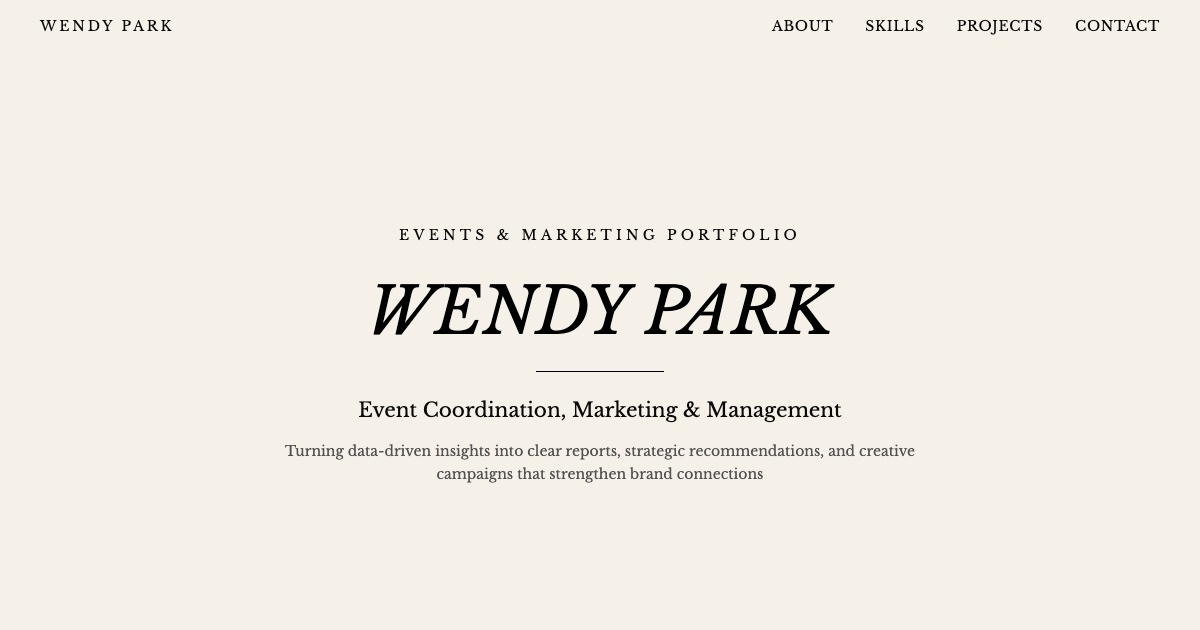
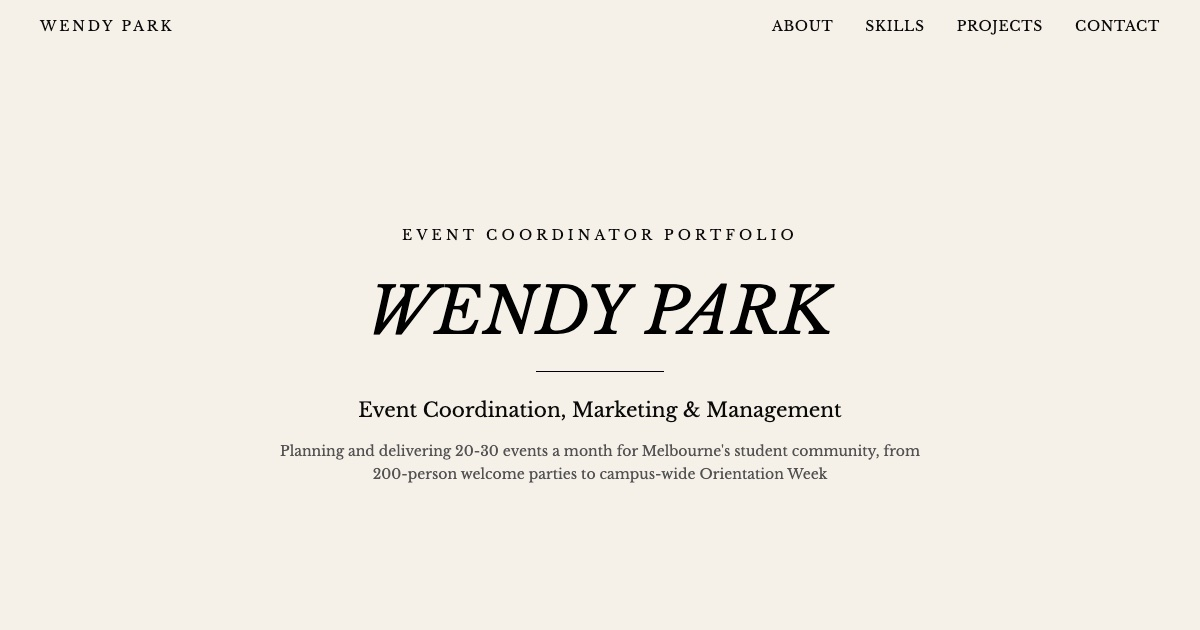
Refocus content on event coordination; update impact stats and add bakery posters
- About, hero tagline, Skills and event project copy rewritten around the Scape Student Experience Coordinator role
- Impact & Reach: events a month, peer mentors trained, O-Week students welcomed
- Add Sweet Milk Bread and Milk Cream Donuts posters to Cafe Promotions (renamed to ASCII filenames)
- Regenerate link-preview image with the new hero

Changed region(s): [[0.2158, 0.6937, 0.7708, 0.7841], [0.3392, 0.3619, 0.6783, 0.3921]]

diff --git a/components/Projects.tsx b/components/Projects.tsx
@@ -24,6 +24,14 @@ export function Projects() {
       src: "/assets/milktea6.jpeg",
       alt: "The Ceylon signature layered milk tea",
     },
+    {
+      src: "/assets/ceylon-poster-sweet-milk-bread.jpg",
+      alt: "Sweet Milk Bread new bakery promotional poster",
+    },
+    {
+      src: "/assets/ceylon-poster-milk-cream-donuts.jpg",
+      alt: "Milk Cream Donuts new bakery promotional poster",
+    },
   ];
   const mpmpGalleryImages = [
     {
@@ -109,8 +117,91 @@ export function Projects() {
           FEATURED WORK
         </h2>
         <p className="text-center text-sm text-neutral-600 mb-16">
-          A selection of marketing projects and creative campaigns
+          Events I have planned and delivered, alongside marketing campaigns and research
         </p>
+
+        {/* Event Management & Student Experience */}
+        <div className="mb-20">
+          <div className="bg-white p-8 md:p-12">
+            <div className="grid md:grid-cols-2 gap-8 items-center mb-8">
+              <div>
+                <h3 className="font-serif italic text-3xl mb-4">Event Management & Student Experience</h3>
+                <p className="text-sm uppercase tracking-wider text-[#C4A57B] mb-4">
+                  Community Engagement & Campus Activations
+                </p>
+                <p className="text-sm leading-relaxed mb-4">
+                  As Student Experience Coordinator at Scape Australia, I plan and deliver an average of 20-30 events a month
+                  across 5 Scape buildings in Melbourne, including large-scale events of 200-300 attendees. From interactive DIY
+                  stations and themed welcome celebrations to large-scale social mixers, every event is built to foster belonging.
+                </p>
+                <div className="space-y-2 text-sm">
+                  <p><span className="font-serif italic">Scale:</span> 20-30 events a month, 200-300 attendees at flagship events, 40+ Student Ambassadors</p>
+                  <p><span className="font-serif italic">Responsibilities:</span> Vendor onboarding, budgeting, ticketing, ambassador recruitment, training & rostering</p>
+                  <p><span className="font-serif italic">Key Events:</span> Think Pink Welcome Party, USQ Welcome Social, DIY Matcha Station</p>
+                  <p><span className="font-serif italic">Deliverables:</span> Event Planning & Execution, Community Facilitation, Photo & Video Content</p>
+                </div>
+              </div>
+              <div className="w-full mx-auto max-w-lg">
+                <ImageWithFallback
+                  src="/assets/event-welcome-social.jpg"
+                  alt="USQ Welcome Social community gathering"
+                  className="w-full h-auto rounded-lg shadow-sm"
+                />
+                <p className="text-xs text-neutral-500 mt-2 text-center italic">
+                  USQ Welcome Social — Community banquet & celebration
+                </p>
+              </div>
+            </div>
+            <div className="grid grid-cols-1 sm:grid-cols-2 lg:grid-cols-3 gap-6 items-stretch">
+              <div className="flex flex-col bg-[#FAF8F5] rounded-xl overflow-hidden border border-[#EADBC8]/60 p-4">
+                <div className="w-full h-72 overflow-hidden rounded-lg mb-3">
+                  <ImageWithFallback
+                    src="/assets/event-matcha-station.jpg"
+                    alt="DIY Matcha Station community event setup"
+                    className="w-full h-full object-cover"
+                  />
+                </div>
+                <h4 className="font-serif italic text-lg text-neutral-800">DIY Matcha Station</h4>
+                <p className="text-xs uppercase tracking-wider text-[#C4A57B] mt-0.5">Interactive Student Workshop</p>
+                <p className="text-xs text-neutral-600 mt-2 leading-relaxed">
+                  Engaging hands-on workshop station fostering relaxed, interactive peer connections over craft drinks.
+                </p>
+              </div>
+
+              <div className="flex flex-col bg-[#FAF8F5] rounded-xl overflow-hidden border border-[#EADBC8]/60 p-4">
+                <div className="w-full h-72 overflow-hidden rounded-lg mb-3">
+                  <ImageWithFallback
+                    src="/assets/event-pink-party.jpg"
+                    alt="Think Pink Welcome Party photobooth strip with Scape"
+                    className="w-full h-full object-cover object-top"
+                  />
+                </div>
+                <h4 className="font-serif italic text-lg text-neutral-800">Think Pink Welcome Party</h4>
+                <p className="text-xs uppercase tracking-wider text-[#C4A57B] mt-0.5">Scape Student Living Activation</p>
+                <p className="text-xs text-neutral-600 mt-2 leading-relaxed">
+                  High-energy themed welcome bash featuring custom photobooth activations and community mixer spaces.
+                </p>
+              </div>
+
+              <div className="flex flex-col bg-[#FAF8F5] rounded-xl overflow-hidden border border-[#EADBC8]/60 p-4 sm:col-span-2 lg:col-span-1">
+                <div className="w-full h-72 overflow-hidden rounded-lg mb-3 bg-black flex items-center justify-center">
+                  <video
+                    src="/assets/event-pink-party.mp4"
+                    controls
+                    playsInline
+                    preload="metadata"
+                    className="w-full h-full object-cover"
+                  />
+                </div>
+                <h4 className="font-serif italic text-lg text-neutral-800">Event Highlights Reel</h4>
+                <p className="text-xs uppercase tracking-wider text-[#C4A57B] mt-0.5">Live Atmosphere & Engagement</p>
+                <p className="text-xs text-neutral-600 mt-2 leading-relaxed">
+                  Video snapshot capturing student turnout, atmosphere, and live social interactions across the activation.
+                </p>
+              </div>
+            </div>
+          </div>
+        </div>
 
         {/* Cafe Promotions - Featured Project */}
         <div className="mb-20">
@@ -201,88 +292,6 @@ export function Projects() {
                   />
                 </div>
               ))}
-            </div>
-          </div>
-        </div>
-
-        {/* Event Management & Student Experience */}
-        <div className="mb-20">
-          <div className="bg-white p-8 md:p-12">
-            <div className="grid md:grid-cols-2 gap-8 items-center mb-8">
-              <div>
-                <h3 className="font-serif italic text-3xl mb-4">Event Management & Student Experience</h3>
-                <p className="text-sm uppercase tracking-wider text-[#C4A57B] mb-4">
-                  Community Engagement & Campus Activations
-                </p>
-                <p className="text-sm leading-relaxed mb-4">
-                  Planning, promoting, and delivering vibrant student life experiences and resident community events.
-                  From interactive DIY stations and themed welcome celebrations to large-scale social mixers, fostering
-                  belonging, engagement, and memorable community moments.
-                </p>
-                <div className="space-y-2 text-sm">
-                  <p><span className="font-serif italic">Roles & Initiatives:</span> Resident & Student Experience Activations, Community Building</p>
-                  <p><span className="font-serif italic">Key Events:</span> Think Pink Welcome Party, USQ Welcome Social, DIY Matcha Station</p>
-                  <p><span className="font-serif italic">Deliverables:</span> Event Execution, Community Facilitation, Photo & Video Content</p>
-                </div>
-              </div>
-              <div className="w-full mx-auto max-w-lg">
-                <ImageWithFallback
-                  src="/assets/event-welcome-social.jpg"
-                  alt="USQ Welcome Social community gathering"
-                  className="w-full h-auto rounded-lg shadow-sm"
-                />
-                <p className="text-xs text-neutral-500 mt-2 text-center italic">
-                  USQ Welcome Social — Community banquet & celebration
-                </p>
-              </div>
-            </div>
-            <div className="grid grid-cols-1 sm:grid-cols-2 lg:grid-cols-3 gap-6 items-stretch">
-              <div className="flex flex-col bg-[#FAF8F5] rounded-xl overflow-hidden border border-[#EADBC8]/60 p-4">
-                <div className="w-full h-72 overflow-hidden rounded-lg mb-3">
-                  <ImageWithFallback
-                    src="/assets/event-matcha-station.jpg"
-                    alt="DIY Matcha Station community event setup"
-                    className="w-full h-full object-cover"
-                  />
-                </div>
-                <h4 className="font-serif italic text-lg text-neutral-800">DIY Matcha Station</h4>
-                <p className="text-xs uppercase tracking-wider text-[#C4A57B] mt-0.5">Interactive Student Workshop</p>
-                <p className="text-xs text-neutral-600 mt-2 leading-relaxed">
-                  Engaging hands-on workshop station fostering relaxed, interactive peer connections over craft drinks.
-                </p>
-              </div>
-
-              <div className="flex flex-col bg-[#FAF8F5] rounded-xl overflow-hidden border border-[#EADBC8]/60 p-4">
-                <div className="w-full h-72 overflow-hidden rounded-lg mb-3">
-                  <ImageWithFallback
-                    src="/assets/event-pink-party.jpg"
-                    alt="Think Pink Welcome Party photobooth strip with Scape"
-                    className="w-full h-full object-cover object-top"
-                  />
-                </div>
-                <h4 className="font-serif italic text-lg text-neutral-800">Think Pink Welcome Party</h4>
-                <p className="text-xs uppercase tracking-wider text-[#C4A57B] mt-0.5">Scape Student Living Activation</p>
-                <p className="text-xs text-neutral-600 mt-2 leading-relaxed">
-                  High-energy themed welcome bash featuring custom photobooth activations and community mixer spaces.
-                </p>
-              </div>
-
-              <div className="flex flex-col bg-[#FAF8F5] rounded-xl overflow-hidden border border-[#EADBC8]/60 p-4 sm:col-span-2 lg:col-span-1">
-                <div className="w-full h-72 overflow-hidden rounded-lg mb-3 bg-black flex items-center justify-center">
-                  <video
-                    src="/assets/event-pink-party.mp4"
-                    controls
-                    playsInline
-                    preload="metadata"
-                    className="w-full h-full object-cover"
-                  />
-                </div>
-                <h4 className="font-serif italic text-lg text-neutral-800">Event Highlights Reel</h4>
-                <p className="text-xs uppercase tracking-wider text-[#C4A57B] mt-0.5">Live Atmosphere & Engagement</p>
-                <p className="text-xs text-neutral-600 mt-2 leading-relaxed">
-                  Video snapshot capturing student turnout, atmosphere, and live social interactions across the activation.
-                </p>
-              </div>
             </div>
           </div>
         </div>

diff --git a/components/Skills.tsx b/components/Skills.tsx
@@ -1,46 +1,46 @@
-import { BookOpenCheck, Camera, BarChart3, Mail, TrendingUp, Users } from "lucide-react";
+import { BarChart3, CalendarCheck, Camera, Handshake, Megaphone, Users } from "lucide-react";
 
 export function Skills() {
   const skills = [
     {
-      category: "Report Writing",
-      icon: BookOpenCheck,
+      category: "Event Planning & Delivery",
+      icon: CalendarCheck,
       items: [
-        "Insightful marketing reports",
-        "Clear structure",
-        "Consumer & competitor analysis",
-        "Strategic recommendations"
+        "20-30 events a month",
+        "Large-scale events (200-300 guests)",
+        "Community events & activations",
+        "Orientation & welcome programs"
       ]
+    },
+    {
+      category: "Logistics & Budgeting",
+      icon: Handshake,
+      items: ["Vendor onboarding", "Event budgeting", "Ticketing systems", "Multi-site coordination"]
+    },
+    {
+      category: "Team Leadership",
+      icon: Users,
+      items: [
+        "Recruiting & onboarding",
+        "Training 40+ ambassadors",
+        "Rostering",
+        "Peer mentoring (900+ mentors trained)"
+      ]
+    },
+    {
+      category: "Event Promotion",
+      icon: Megaphone,
+      items: ["Social media campaigns", "Posters & print", "Reels & video", "Copywriting"]
     },
     {
       category: "Content Creation",
       icon: Camera,
-      items: ["Photography", "Image Editing", "Layout Design", "Typography"]
+      items: ["Event photography", "Image editing", "Layout design", "Typography"]
     },
     {
-      category: "Research",
+      category: "Research & Reporting",
       icon: BarChart3,
-      items: [
-        "Market research",
-        "Data interpretation",
-        "Trend analysis",
-        "Consumer insight development"
-      ]
-    },
-    {
-      category: "Social Media",
-      icon: TrendingUp,
-      items: ["Content Strategy", "Platform Management", "Engagement", "Analytics"]
-    },
-    {
-      category: "Marketing",
-      icon: Mail,
-      items: ["Campaign Development", "Brand Messaging", "Email Marketing", "Copywriting"]
-    },
-    {
-      category: "Community",
-      icon: Users,
-      items: ["Engagement Strategy", "Event Planning", "Peer Leadership", "Public Speaking"]
+      items: ["Market research", "Consumer insight", "Data interpretation", "Strategic recommendations"]
     }
   ];
 
@@ -51,7 +51,7 @@ export function Skills() {
           EXPERTISE
         </h2>
         <p className="text-center text-sm text-neutral-600 mb-12">
-          Core marketing capabilities across research, strategy, reporting, and community engagement
+          Planning, running and promoting events, backed by a marketing and management degree
         </p>
         <div className="grid grid-cols-2 md:grid-cols-3 gap-8">
           {skills.map((skill, index) => {

diff --git a/components/About.tsx b/components/About.tsx
@@ -13,16 +13,16 @@ export function About() {
             </h2>
             <div className="space-y-4 text-sm leading-relaxed">
               <p>
-                Marketing & Management graduate from the University of Melbourne with strong skills in research, data interpretation,
-                and producing clear, insight-driven marketing reports.
+                Event coordinator based in Melbourne. As Student Experience Coordinator at Scape Australia, I plan and deliver
+                20-30 events a month across 5 buildings, handling vendors, budgets and ticketing, and lead a team of 40+ Student Ambassadors.
               </p>
               <p>
-                Experienced in social media content creation, graphic design, and community engagement, including leadership roles
-                across peer mentoring programs and student events.
+                Before Scape, I helped facilitate Orientation Week for 6,000+ new students and trained 900+ peer mentors at the
+                University of Melbourne, and I host guests at Melbourne Skydeck, which welcomes over 700 visitors a day.
               </p>
               <p>
-                Brings cultural sensitivity, creative thinking, and a multilingual background (English, Korean, Khmer) to every project,
-                shaping thoughtful communication and meaningful brand storytelling.
+                I hold a Bachelor of Commerce in Marketing & Management from the University of Melbourne, so I can promote the events I run too.
+                I speak English, Korean and Khmer, and bring cultural sensitivity to every community I work with.
               </p>
             </div>
           </div>

diff --git a/components/SocialMedia.tsx b/components/SocialMedia.tsx
@@ -1,19 +1,19 @@
 export function SocialMedia() {
   const stats = [
     {
-      number: "45",
-      label: "Post Impressions",
-      description: "Past 7 days"
+      number: "20-30",
+      label: "Events a Month",
+      description: "Across 5 Scape buildings"
     },
     {
-      number: "85",
-      label: "Profile Views",
-      description: "Weekly engagement"
+      number: "900+",
+      label: "Peer Mentors Trained",
+      description: "University of Melbourne"
     },
     {
-      number: "350+",
-      label: "Professional Network",
-      description: "LinkedIn connections"
+      number: "6,000+",
+      label: "New Students Welcomed",
+      description: "Orientation Week"
     }
   ];
 
@@ -24,7 +24,7 @@ export function SocialMedia() {
           IMPACT & REACH
         </h2>
         <p className="text-center text-sm mb-12 text-neutral-400">
-          Building meaningful connections through strategic content
+          Building community through events, mentoring and student engagement
         </p>
 
         <div className="grid grid-cols-1 sm:grid-cols-3 gap-8">

diff --git a/components/Hero.tsx b/components/Hero.tsx
@@ -2,7 +2,7 @@ export function Hero() {
   return (
     <section id="hero" className="min-h-screen flex items-center justify-center bg-[#F5F1E8] px-4 pt-20">
       <div className="text-center max-w-4xl">
-        <p className="uppercase tracking-[0.3em] text-sm mb-8">Events &amp; Marketing Portfolio</p>
+        <p className="uppercase tracking-[0.3em] text-sm mb-8">Event Coordinator Portfolio</p>
         <h1 className="font-serif italic mb-6" style={{ fontSize: '4rem', lineHeight: '1.1', color: '#000' }}>
           WENDY PARK
         </h1>
@@ -11,7 +11,7 @@ export function Hero() {
           Event Coordination, Marketing & Management
         </p>
         <p className="text-sm text-neutral-600 max-w-2xl mx-auto leading-relaxed">
-          Turning data-driven insights into clear reports, strategic recommendations, and creative campaigns that strengthen brand connections
+          Planning and delivering 20-30 events a month for Melbourne&apos;s student community, from 200-person welcome parties to campus-wide Orientation Week
         </p>
       </div>
     </section>
